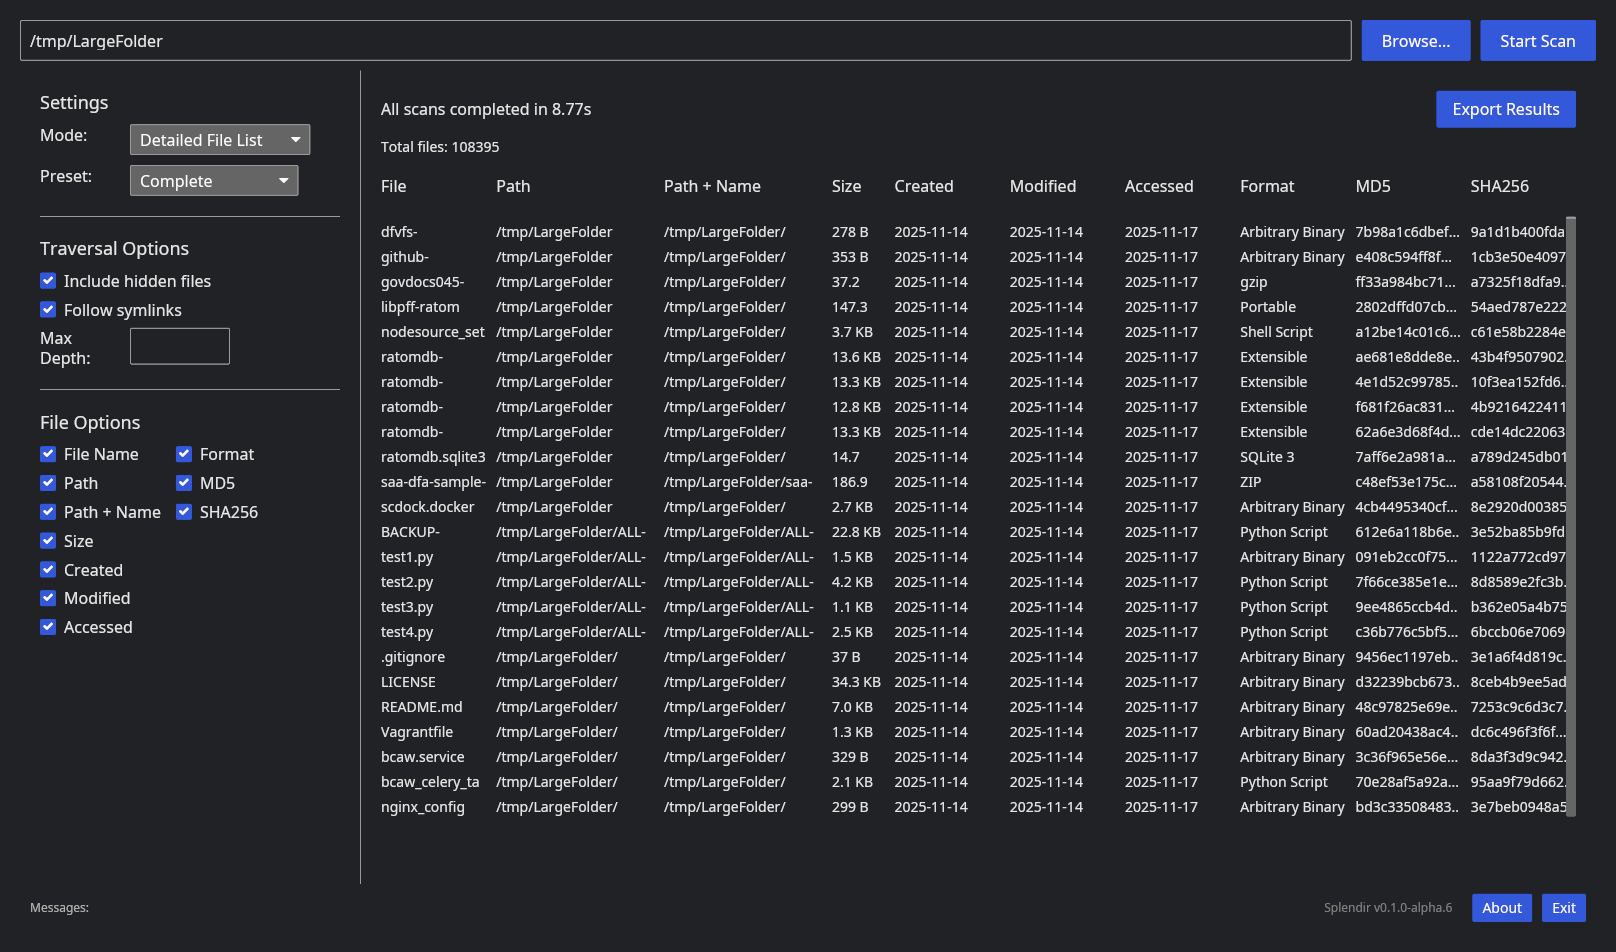
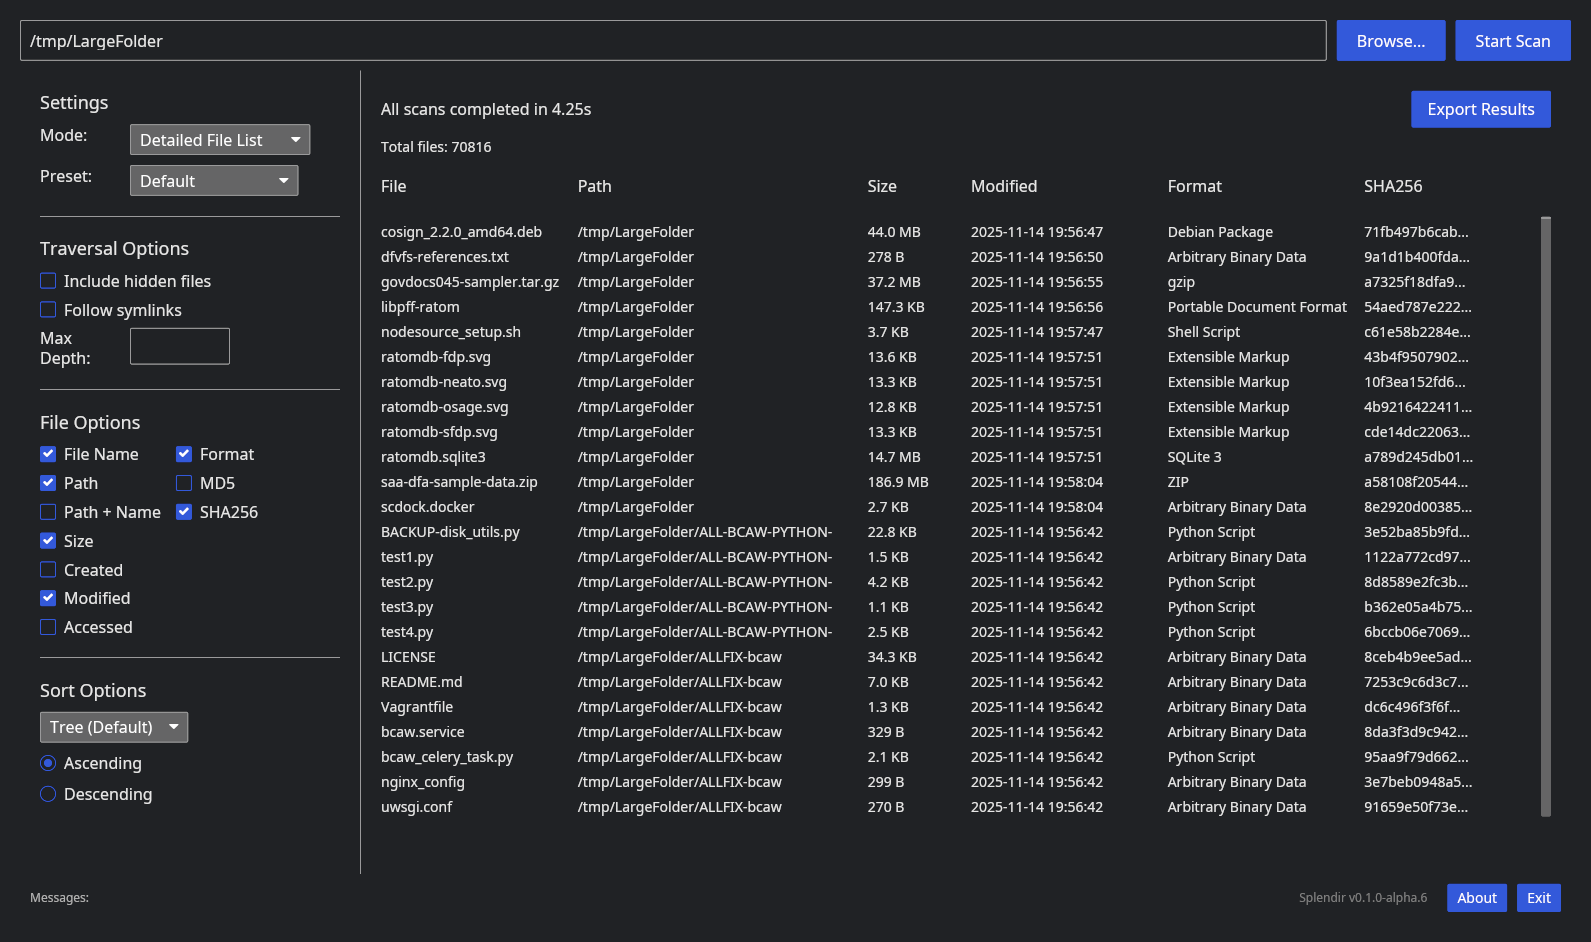
Added Sorting - Sort Options area added to GUI - Live sorting by tree walk (default), file name, size, MAC times - Ascending and descending sorts

diff --git a/src/gui.rs b/src/gui.rs
@@ -1,5 +1,5 @@
 use iced::{
-    widget::{button, checkbox, column, container, horizontal_space, pick_list, progress_bar, row, scrollable, stack, text, text_input, Column, Space},
+    widget::{button, checkbox, column, container, horizontal_space, pick_list, progress_bar, radio, row, scrollable, stack, text, text_input, Column, Space},
     Alignment, Element, Length, Theme, Task, Font, time,
 };
 use iced::window;
@@ -22,7 +22,7 @@ const APP_TITLE: &str = concat!("Splendir v", env!("CARGO_PKG_VERSION"));
 pub fn run() -> iced::Result {
     iced::application(APP_TITLE, update, view)
         .window(window::Settings {
-            size: iced::Size::new(1300.0, 850.0),
+            size: iced::Size::new(1350.0, 900.0),
             min_size: Some(iced::Size::new(900.0, 830.0)),
             ..Default::default()
         })
@@ -83,6 +83,55 @@ impl std::fmt::Display for ScanPreset {
     }
 }
 
+#[derive(Debug, Clone, Copy, PartialEq, Eq)]
+enum SortBy {
+    TreeDefault,
+    FileName,
+    Size,
+    Created,
+    Accessed,
+    Modified,
+}
+
+impl SortBy {
+    const ALL: [SortBy; 6] = [
+        SortBy::TreeDefault,
+        SortBy::FileName,
+        SortBy::Size,
+        SortBy::Created,
+        SortBy::Accessed,
+        SortBy::Modified,
+    ];
+}
+
+impl std::fmt::Display for SortBy {
+    fn fmt(&self, f: &mut std::fmt::Formatter<'_>) -> std::fmt::Result {
+        match self {
+            SortBy::TreeDefault => write!(f, "Tree (Default)"),
+            SortBy::FileName => write!(f, "File Name"),
+            SortBy::Size => write!(f, "Size"),
+            SortBy::Created => write!(f, "Created"),
+            SortBy::Accessed => write!(f, "Accessed"),
+            SortBy::Modified => write!(f, "Modified"),
+        }
+    }
+}
+
+#[derive(Debug, Clone, Copy, PartialEq, Eq)]
+enum SortOrder {
+    Ascending,
+    Descending,
+}
+
+impl std::fmt::Display for SortOrder {
+    fn fmt(&self, f: &mut std::fmt::Formatter<'_>) -> std::fmt::Result {
+        match self {
+            SortOrder::Ascending => write!(f, "Ascending"),
+            SortOrder::Descending => write!(f, "Descending"),
+        }
+    }
+}
+
 // Shared progress state for communication between threads
 type ProgressState = Arc<Mutex<Option<(f32, String)>>>;
 
@@ -122,6 +171,10 @@ struct SplendirGui {
     show_accessed: bool,
     show_format: bool,
     calculate_format: bool,
+    
+    // Sort options
+    sort_by: SortBy,
+    sort_order: SortOrder,
     
     // Scan State
     is_scanning: bool,
@@ -185,6 +238,10 @@ impl Default for SplendirGui {
             show_format: false,
             calculate_format: false,
             
+            // Sort options
+            sort_by: SortBy::TreeDefault,
+            sort_order: SortOrder::Ascending,
+            
             is_scanning: false,
             scan_progress: 0.0,
             scan_status: String::new(),
@@ -203,6 +260,7 @@ impl Default for SplendirGui {
 #[derive(Debug, Clone, Default)]
 struct ScanResults {
     detailed_files: Vec<FileInfo>,
+    original_order: Vec<FileInfo>, // Preserve original scan order
     tree_node: Option<TreeNode>,
     tree_output: String,
     analysis_output: String,
@@ -233,6 +291,10 @@ enum Message {
     ShowModifiedToggled(bool),
     ShowAccessedToggled(bool),
     ShowFormatToggled(bool),
+    
+    // Sort options
+    SortBySelected(SortBy),
+    SortOrderSelected(SortOrder),
     
     // Scan Events
     StartScan,
@@ -423,6 +485,30 @@ fn update(state: &mut SplendirGui, message: Message) -> Task<Message> {
             state.show_format = value;
             state.calculate_format = value;
         }
+        Message::SortBySelected(sort_by) => {
+            state.sort_by = sort_by;
+            // Re-sort existing results if we have them
+            if !state.scan_results.detailed_files.is_empty() {
+                sort_files(
+                    &mut state.scan_results.detailed_files, 
+                    &state.scan_results.original_order,
+                    state.sort_by, 
+                    state.sort_order
+                );
+            }
+        }
+        Message::SortOrderSelected(sort_order) => {
+            state.sort_order = sort_order;
+            // Re-sort existing results if we have them
+            if !state.scan_results.detailed_files.is_empty() {
+                sort_files(
+                    &mut state.scan_results.detailed_files, 
+                    &state.scan_results.original_order,
+                    state.sort_by, 
+                    state.sort_order
+                );
+            }
+        }
         Message::StartScan => {
             if state.selected_path.is_empty() {
                 state.error_message = Some("Please select a directory to scan".to_string());
@@ -476,8 +562,14 @@ fn update(state: &mut SplendirGui, message: Message) -> Task<Message> {
                 }
             }
         }
-        Message::ScanComplete(results) => {
+        Message::ScanComplete(mut results) => {
             state.is_scanning = false;
+            
+            // Save original order before any sorting
+            results.original_order = results.detailed_files.clone();
+            
+            // Sort files if we're not using tree default
+            sort_files(&mut results.detailed_files, &results.original_order, state.sort_by, state.sort_order);
             
             // Update tree cache regardless of current mode (since we now have tree data)
             if let Some(ref tree_node) = results.tree_node {
@@ -761,6 +853,29 @@ fn view_options(state: &SplendirGui) -> Element<Message> {
     ]
     .spacing(10);
     
+    // Sort Options section
+    let sort_options_section = column![
+        text("Sort Options").size(18).color(iced::Color::from_rgb(0.9, 0.9, 0.9)),
+        pick_list(
+            &SortBy::ALL[..],
+            Some(state.sort_by),
+            Message::SortBySelected
+        ),
+        iced::widget::radio(
+            "Ascending",
+            SortOrder::Ascending,
+            Some(state.sort_order),
+            Message::SortOrderSelected
+        ),
+        iced::widget::radio(
+            "Descending",
+            SortOrder::Descending,
+            Some(state.sort_order),
+            Message::SortOrderSelected
+        ),
+    ]
+    .spacing(10);
+    
     // Left sidebar with all options and horizontal separators
     column![
         settings_section,
@@ -768,6 +883,8 @@ fn view_options(state: &SplendirGui) -> Element<Message> {
         traversal_section,
         iced::widget::horizontal_rule(1),
         file_options_section,
+        iced::widget::horizontal_rule(1),
+        sort_options_section,
     ]
     .spacing(20)
     .width(Length::Fixed(300.0))
@@ -1347,4 +1464,33 @@ async fn export_results(path: PathBuf, results: ScanResults, mode: ScanMode, col
     })
     .await
     .map_err(|e| format!("Export task failed: {}", e))?
+}
+
+/// Sort files based on sort criteria
+fn sort_files(files: &mut Vec<FileInfo>, original_order: &[FileInfo], sort_by: SortBy, sort_order: SortOrder) {
+    // Restore original order if using tree default
+    if sort_by == SortBy::TreeDefault {
+        *files = original_order.to_vec();
+        // Reverse if descending
+        if sort_order == SortOrder::Descending {
+            files.reverse();
+        }
+        return;
+    }
+    
+    files.sort_by(|a, b| {
+        let cmp = match sort_by {
+            SortBy::TreeDefault => std::cmp::Ordering::Equal, // Already handled above
+            SortBy::FileName => a.name.cmp(&b.name),
+            SortBy::Size => a.size.cmp(&b.size),
+            SortBy::Created => a.created.cmp(&b.created),
+            SortBy::Accessed => a.last_accessed.cmp(&b.last_accessed),
+            SortBy::Modified => a.last_modified.cmp(&b.last_modified),
+        };
+        
+        match sort_order {
+            SortOrder::Ascending => cmp,
+            SortOrder::Descending => cmp.reverse(),
+        }
+    });
 }

diff --git a/README.md b/README.md
@@ -11,10 +11,11 @@ Splendir is an extremely fast directory scanner with GUI and CLI interfaces. Spl
 Features:
 - Multiple scan presets
 - Virtual scrolling in tree and file list modes for live views of millions of files
+- Live sorting of output in file list view
 - Multi-threaded processing for high speed scans
 - SHA256 and MD5 hash calculations on request
 - Hidden file and symlink traversal on request
-- File format identification
+- File format identification on request
 - Export tree structures as UTF-8 encoded text files
 - Export directory listings as UTF-8 encoded CSV files
 
@@ -38,11 +39,11 @@ Click the **Browse...** button to select a local directory. Click the **Start Sc
 
 ![Splendir Directory Listing View](assets/sds-dirview.png)
 
-Both the **Directory Listing** view and **Tree View** are implemented with the appropriate data structures and virtual scrolling features to allow viewing directories of any size. When scanning large directories, you will see a progress report as the tool builds this data structure. Once the directory has been scanned, you can scroll to any point in the output to inspect and review before exporting.
+Both the **Directory Listing** view and **Tree View** are implemented with the appropriate data structures and virtual scrolling features to allow viewing directories of any size. When scanning large directories, you will see a progress report as the tool builds this data structure. Once the directory has been scanned, you can scroll to any point in the output to inspect and review before exporting. You can also adjust the Sort Options to instantly view and export sorted results without having to rescan.
 
 ![Splendir Tree Listing View](assets/sds-treeview.png)
 
-The **Detailed File List** view is exported as a comma-separated value file, and the **Tree View** is exported as a UTF-8 encoded text file. Additional export options are planned for future releases.
+The **Detailed File List** view is exported as a UTF-8 encoded CSV file (this can be conveniently viewed in a spreadsheet), and the **Tree View** is exported as a UTF-8 encoded text file. Additional export options are planned for future releases.
 
 ![Splendir Directory Analysis View](assets/sds-analysis.png)
 
